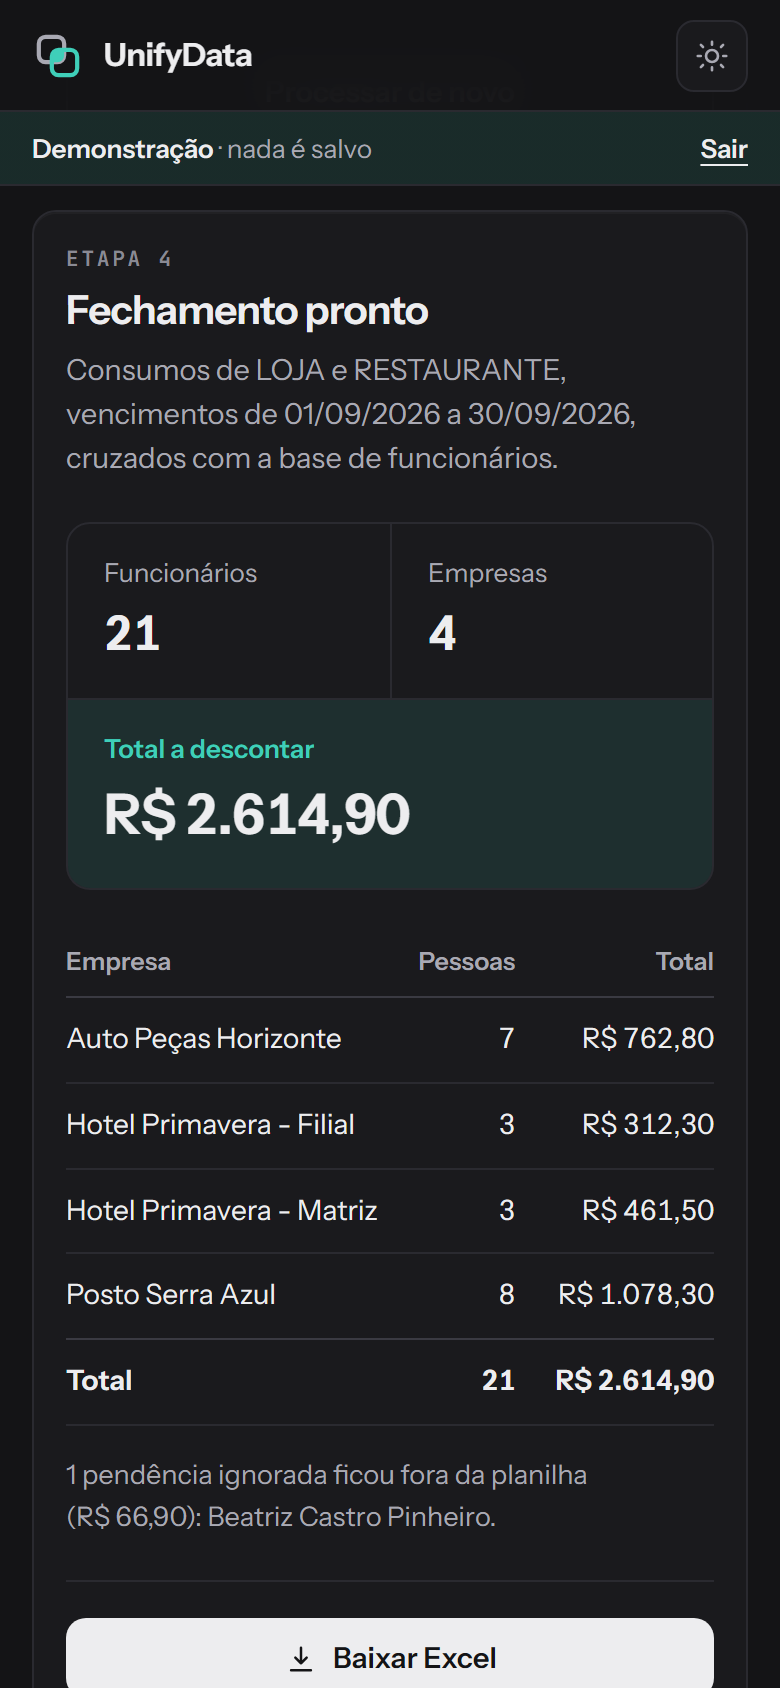
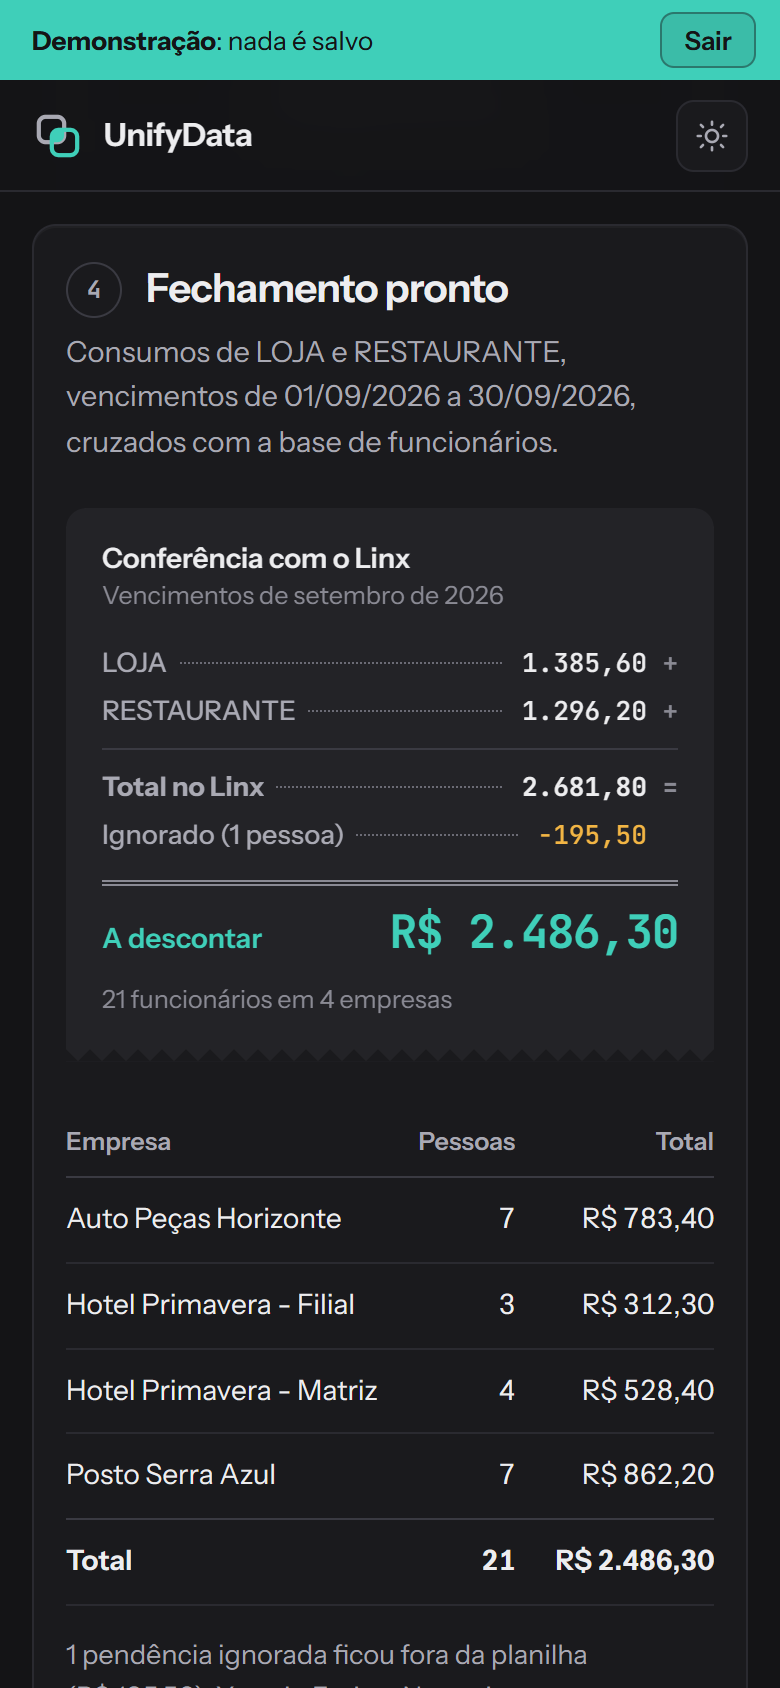
Capturas do README, capa e prévia para redes com o visual novo; CHANGELOG
Capturas refeitas na demonstração (1280×800 a 1,4x e celular 390×844 a
2x). A imagem das saídas mostra o relatório, o Excel e o CSV de verdade
da demonstração, já com as marcas de dados fictícios.

diff --git a/CHANGELOG.md b/CHANGELOG.md
@@ -1,0 +1,50 @@
+# Changelog
+
+## 1.1.0 (2026-10-13)
+
+### Closing
+- The result opens with a reconciliation tape, like an adding-machine
+  roll: each store's total in Linx, their sum, what was ignored and what
+  goes to payroll. The sum matches the grand total of the Linx reports.
+- Each step's number is part of its title.
+- On wide screens (1200 px or more) the column is wider and the company
+  table sits beside the tape.
+
+### Demo
+- The demo opens at the top of the page and shows that it is loading.
+  Nothing moves while the sample files arrive (cumulative layout shift 0,
+  measured in Edge on a computer and on a throttled phone).
+- The demo banner sits at the top of the page, above the sidebar and the
+  bar, in the brand color.
+- SheetJS and PDF.js download alongside the sample files, not after them.
+- Notifications stack in the bottom-right corner on a computer.
+
+### Outputs
+- Files are named after the month of the due dates
+  (`Fechamento_UnifyData_2026-09.xlsx`).
+- In the demo, the Excel, the CSV and the A4 report say the data is made
+  up, and the file names end in `_DEMO`.
+- The report and the Excel header use the brand teal instead of burgundy,
+  and the report summary shows the same reconciliation as the tape.
+
+### Privacy and security
+- The fonts are hosted in the repository: the page no longer calls Google
+  Fonts and sends no referrer. The CSP is tighter, and the 404 page has
+  its own.
+- An unexpected read error says what to do; the technical detail goes to
+  the console.
+- CSS and scripts carry a version in their address, so a new release
+  never runs with an old file from the cache.
+
+### Project
+- CI runs on Node 22 and 24. Tests: 11 → 13 (file names and the
+  reconciliation).
+- The README says exactly what the tests cover.
+- Link preview with image size and alt text; icon for iPhone.
+
+## 1.0.0 (2026-10-02)
+
+- New interface: the four steps with a sidebar, light and dark themes, a
+  phone layout and a demo with sample files.
+- Excel, CSV and an A4 report; the rules in `js/nucleo.js`, tested with
+  `node --test`.

diff --git a/README.pt-BR.md b/README.pt-BR.md
@@ -212,6 +212,7 @@ node --test
 ```
 index.html            a página: lateral, as quatro etapas e o relatório
 404.html              página para endereços que não existem
+CHANGELOG.md          o que mudou em cada versão (em inglês)
 favicon.svg           a marca do UnifyData (apple-touch-icon.png para iPhone)
 css/style.css         temas claro e escuro, celular e impressão
 fonts/                Instrument Sans e JetBrains Mono (woff2), com as licenças

diff --git a/README.md b/README.md
@@ -216,6 +216,7 @@ node --test
 ```
 index.html            the page: sidebar, the four steps and the report
 404.html              page for addresses that do not exist
+CHANGELOG.md          what changed in each version
 favicon.svg           the UnifyData mark (apple-touch-icon.png for iPhone)
 css/style.css         light and dark themes, phone and print
 fonts/                Instrument Sans and JetBrains Mono (woff2), with their licenses
